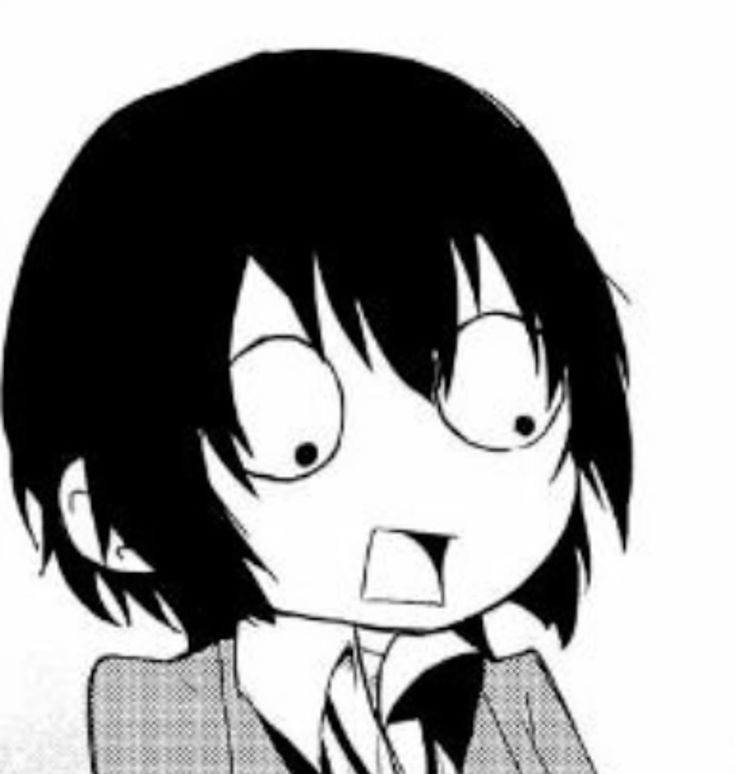
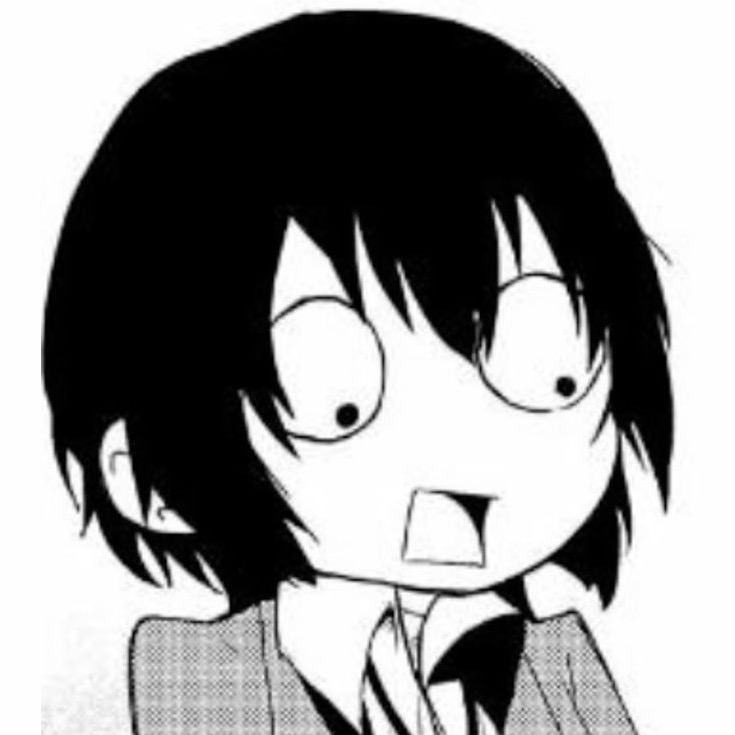
chore(*): code refactoring

diff --git a/app/(pages)/page.tsx b/app/(pages)/page.tsx
@@ -1,12 +1,13 @@
+import { Avatar } from "@/app/components/ui/avatar";
 import { ResumeLink } from "@/app/components/ui/resume-link";
 import { SocialLinks } from "@/app/components/ui/social-links";
-import { LongParagraph } from "@/app/components/ui/long-paragraph";
 import { ExperienceTabs } from "@/app/components/ui/experience-tabs";
-import { Avatar } from "@/app/components/ui/avatar";
-import { Heading } from "@/app/components/ui/heading";
-import { RepoCard } from "@/app/components/ui/repo-card";
-import { SeeMoreLink } from "@/app/components/ui/seemore-link";
-import { fetchRepository } from "@/app/utils/fetch";
+import { Heading } from "../components/ui/heading";
+import { RepoCard } from "../components/ui/repo-card";
+import { SeeMoreLink } from "../components/ui/seemore-link";
+import { fetchRepository } from "../utils/fetch";
+
+import avatarImage from "@/public/images/animate-avatar.jpg";
 
 export default async function Home() {
   const repositories = await Promise.all(
@@ -17,14 +18,16 @@ export default async function Home() {
     <div className="space-y-12">
       {/* about me */}
       <div className="flex items-center gap-x-16 max-sm:block">
-        <Avatar src="/images/animate-avatar.jpg" alt="Sothearo's avatar" />
+        <Avatar src={avatarImage} alt="Sothearo's avatar" />
 
         <div className="-order-1 flex-1">
           <h1 className="mb-5 font-mplus text-4xl font-bold capitalize">
             {bio.title}
           </h1>
           <p>{bio.subtitle}</p>
-          <LongParagraph className="mt-2.5">{bio.description}</LongParagraph>
+          <div className="mt-2.5 max-w-prose">
+            <p>{bio.description}</p>
+          </div>
 
           <div className="mt-5 flex items-center gap-6">
             {/* resume */}
@@ -57,7 +60,7 @@ export default async function Home() {
 
 const bio = {
   title: "kay sothearo",
-  subtitle: "A frontend developer based in Phnom Penh 🇰🇭",
+  subtitle: "A frontend developer based in Phnom Penh",
   description: `I am passionate about reading, especially graphic novels such as manga and manhwa. I find great joy in coding, embracing the challenge of creating intricate user interfaces, and I thrive on learning through insightful articles.`,
 };
 

diff --git a/app/(pages)/manga/page.tsx b/app/(pages)/manga/page.tsx
@@ -11,7 +11,8 @@ export default function Manga() {
   return (
     <div className="space-y-12">
       <Heading>Manga</Heading>
-      <div className="grid grid-cols-[repeat(auto-fit,minmax(150px,1fr))] gap-6">
+
+      <div className="grid grid-cols-[repeat(auto-fit,minmax(160px,1fr))] gap-6">
         {mangaList.map((manga, idx) => (
           <MangaCard
             key={idx}

diff --git a/app/(pages)/projects/page.tsx b/app/(pages)/projects/page.tsx
@@ -18,6 +18,7 @@ export default function Projects() {
   return (
     <div className="space-y-12">
       <Heading>Projects</Heading>
+
       <div className="grid grid-cols-2 gap-6 max-sm:grid-cols-1">
         {projectList.map((project, idx) => (
           <ProjectCard

diff --git a/app/layout.tsx b/app/layout.tsx
@@ -23,6 +23,9 @@ export const metadata: Metadata = {
     url: "https://sothearo.dev",
     siteName: "Sothearo - Homepage",
   },
+  twitter: {
+    card: "summary_large_image",
+  },
 };
 
 export default function RootLayout({

diff --git a/app/components/ui/avatar.tsx b/app/components/ui/avatar.tsx
@@ -1,7 +1,7 @@
-import Image from "next/image";
+import Image, { StaticImageData } from "next/image";
 
 interface AvatarProps {
-  src: string;
+  src: string | StaticImageData;
   alt: string;
 }
 
